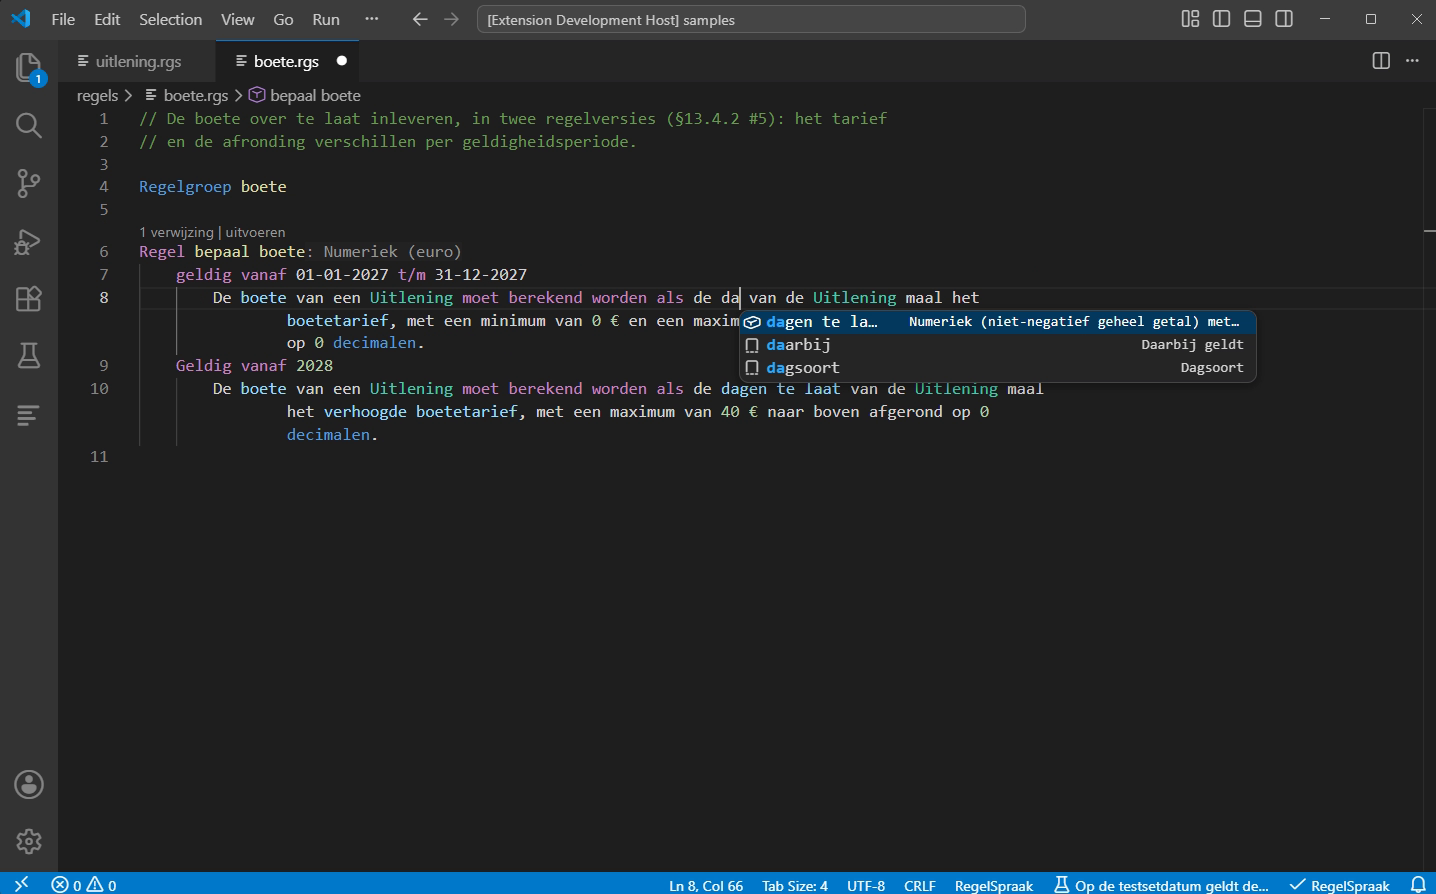
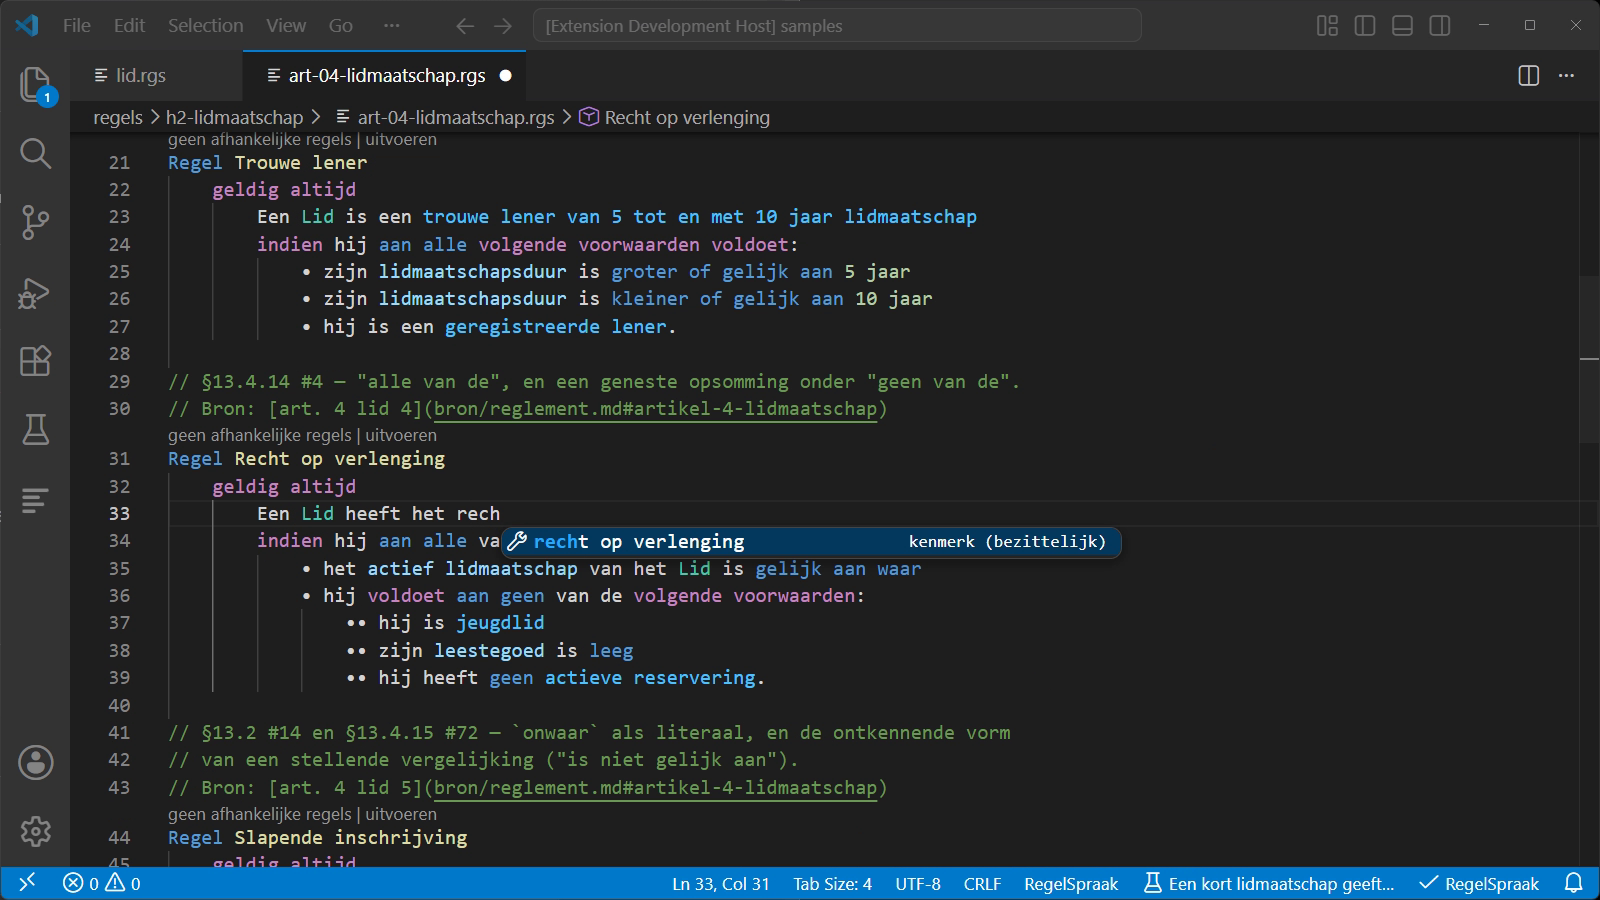
The testset the film runs says nothing about a penalty
`samples/tests/lidmaatschap.test.rgs` is what the demo's run, outcome and
debugging scenes are performed against, and it carried a boete testgeval and the
`boetetarief` parameter beside it. A testset's parameters lead the debugger's
Variables pane, so the word would have been on screen at every stop, in the
Testing tree and in the file — and a penalty is a sour thing to open a product
tour with. Nothing is lost: `uitkomsten.test.rgs` already holds the same case
with the same inputs and a `Verwacht regelversie` line besides, so what went was
a strict subset.

That found a test pinned to the sample rather than to the behaviour it checks.
`testExplorer.test.ts` asserted five run lenses over a testset with four cases;
it counts the `Testgeval` lines in the document now and asserts one lens per case
plus one for the testset, which is what the comment beside it already claimed.
The floor on the case count is a floor and says so.

The still is re-shot with the film: `rech` typed and one suggestion offered,
`recht op verlenging` with `kenmerk (bezittelijk)` beside it. It is 1600x900 now,
because the take is cut to a placed window rather than to a 21:9 screen.

diff --git a/client/src/test/testExplorer.test.ts b/client/src/test/testExplorer.test.ts
@@ -62,7 +62,9 @@ suite('Testverkenner (W7)', () => {
 		const found = (await testsets()).find(one => one.uri?.fsPath === testsUri.fsPath);
 		assert.ok(found, 'de testset van dit bestand ontbreekt in de boom');
 		const cases = childrenOf(found);
-		assert.ok(cases.length >= 4, cases.map(one => one.label).join(' | '));
+		// A floor and not a count: this testset is a sample, and what is being
+		// checked is that its cases hang under it and carry a range of their own.
+		assert.ok(cases.length >= 3, cases.map(one => one.label).join(' | '));
 		for (const one of cases) {
 			assert.ok(one.range, `${one.label} heeft geen bereik`);
 			assert.equal(one.uri?.fsPath, testsUri.fsPath);
@@ -92,8 +94,19 @@ suite('Testverkenner (W7)', () => {
 			return found && found.length > 0 ? found : undefined;
 		});
 		const run = lenses.filter(one => one.command?.command === 'regelspraak.runTestgeval');
-		// One for the testset, one per testgeval.
-		assert.equal(run.length, 5, run.map(one => one.command?.title).join(' | '));
+		// One for the testset, one per testgeval — counted off the document, so
+		// what is asserted is that relationship and not the length this sample
+		// happens to have. It had the number written out until 31 August 2026,
+		// when the testset lost a case and this failed on the sample rather than
+		// on the lens.
+		const source = await vscode.workspace.openTextDocument(testsUri);
+		let written = 0;
+		for (let line = 0; line < source.lineCount; line++) {
+			if (source.lineAt(line).text.startsWith('Testgeval ')) {
+				written++;
+			}
+		}
+		assert.equal(run.length, written + 1, run.map(one => one.command?.title).join(' | '));
 		assert.equal(run[0].command?.title, 'alle testgevallen uitvoeren');
 		assert.deepStrictEqual(run[0].command?.arguments, [testsUri.toString()]);
 		assert.equal(run[1].command?.arguments?.length, 2, 'een geval draagt zijn naam mee');
